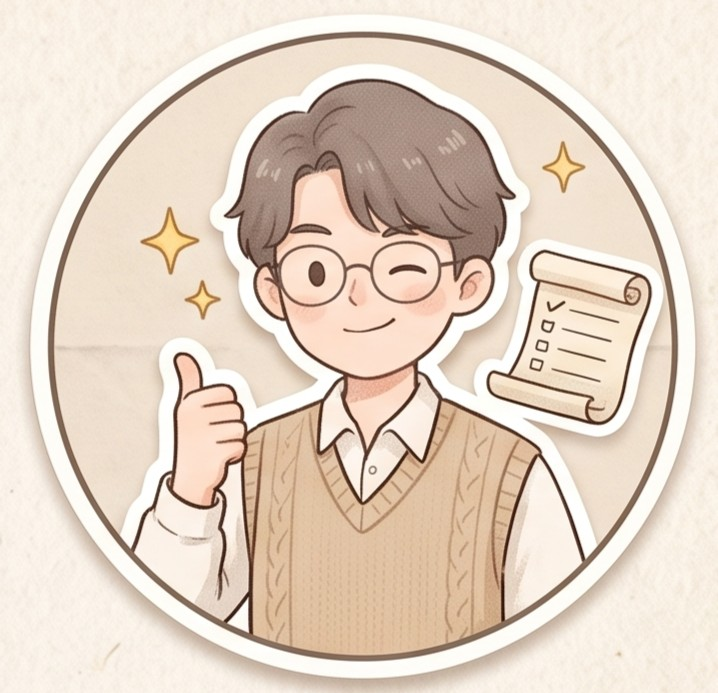
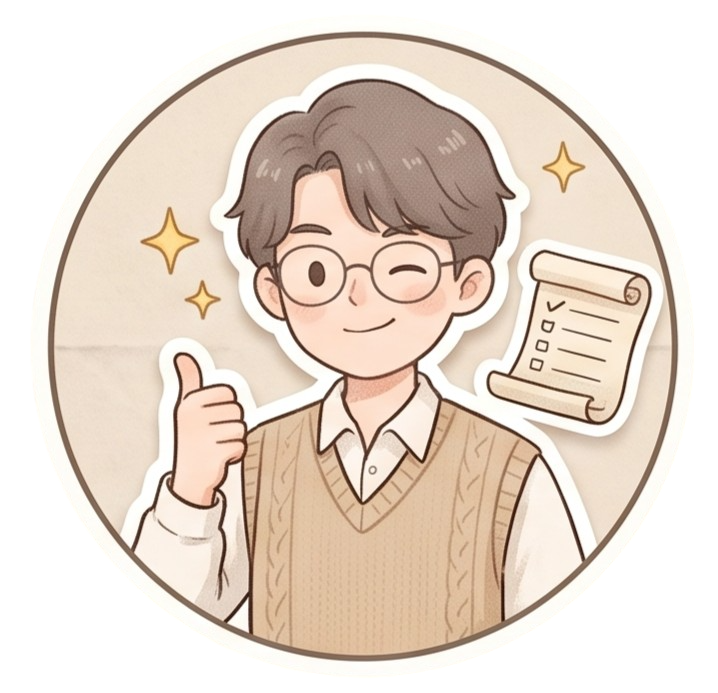
GUI: Improve resizing and command feedback
Allow responsive resizing, close on `bye`, and highlight commands and
errors. Fix GUI `find` matching and result numbering, and update tests.

Changed region(s): [[0.0, 0.0, 1.0, 1.0]]

diff --git a/src/main/resources/view/caesar.css b/src/main/resources/view/caesar.css
@@ -64,11 +64,35 @@
     -fx-border-color: #e9c2a0;
 }
 
+.error-dialog {
+    -fx-background-color: #ffe0e0;
+    -fx-border-color: #df7777;
+    -fx-border-width: 2px;
+}
+
 .user-dialog .label,
 .caesar-dialog .label {
     -fx-text-fill: #5d4235;
     -fx-font-size: 14px;
     -fx-line-spacing: 3px;
+}
+
+.command-badge,
+.command-preview {
+    -fx-background-color: #fffaf3;
+    -fx-background-radius: 12px;
+    -fx-border-color: #d8aa86;
+    -fx-border-radius: 12px;
+    -fx-padding: 3px 9px 3px 9px;
+    -fx-text-fill: #8d5e43;
+    -fx-font-size: 11px;
+    -fx-font-weight: bold;
+}
+
+.error-dialog .label,
+.command-preview-error {
+    -fx-text-fill: #a52d2d;
+    -fx-font-weight: bold;
 }
 
 .user-dialog .image-view,
@@ -106,6 +130,12 @@
 
 .send-button:pressed {
     -fx-background-color: #a9684d;
+}
+
+.command-input.error-input {
+    -fx-border-color: #df7777;
+    -fx-border-width: 2px;
+    -fx-effect: dropshadow(gaussian, rgba(223, 119, 119, 0.35), 6, 0.2, 0, 0);
 }
 
 .help-button {

diff --git a/src/main/java/Caesar/gui/MainWindow.java b/src/main/java/Caesar/gui/MainWindow.java
@@ -1,5 +1,7 @@
 package caesar.gui;
 
+import java.util.Locale;
+
 import caesar.Caesar;
 import caesar.DialogBox;
 import caesar.exception.CaesarException;
@@ -30,6 +32,8 @@ public class MainWindow extends AnchorPane {
     private Button sendButton;
     @FXML
     private Button helpButton;
+    @FXML
+    private Label commandPreview;
 
     /** Processes commands using the existing Caesar application logic. */
     private Caesar caesar;
@@ -48,8 +52,13 @@ public class MainWindow extends AnchorPane {
         dialogContainer.heightProperty().addListener((observable, oldHeight, newHeight) -> {
             scrollToLatestDialog();
         });
+        userInput.textProperty().addListener((observable, oldValue, newValue) -> {
+            userInput.getStyleClass().remove("error-input");
+            updateCommandPreview();
+        });
         userImage = new Image(getClass().getResourceAsStream("/images/User.png"));
         caesarImage = new Image(getClass().getResourceAsStream("/images/Caesar.png"));
+        updateCommandPreview();
     }
 
     /** Injects the Caesar instance and response collector used by this window. */
@@ -57,7 +66,7 @@ public class MainWindow extends AnchorPane {
         this.caesar = caesar;
         this.guiUi = guiUi;
         addDialog("Hello! I'm Caesar.\n"
-                + "You look even brighter than the last time we spoke.\n"
+                + "You look even brighter than the last time we spoke. "
                 + "How may I ease your day today?\n\n"
                 + Parser.getCommandInstructions(), false);
     }
@@ -71,21 +80,27 @@ public class MainWindow extends AnchorPane {
         }
 
         addDialog(command, true);
+        boolean shouldExit = false;
+        boolean hasError = false;
         try {
             guiUi.clearResponse();
-            boolean shouldExit = caesar.processCommand(command);
+            shouldExit = caesar.processCommand(command);
             String response = guiUi.consumeResponse();
             if (!response.isBlank()) {
                 addDialog(response, false);
             }
-            if (shouldExit) {
-                getScene().getWindow().hide();
-            }
         } catch (CaesarException exception) {
             guiUi.clearResponse();
-            addDialog(exception.getMessage(), false);
+            addDialog(exception.getMessage(), false, true);
+            hasError = true;
         }
         userInput.clear();
+        if (hasError) {
+            userInput.getStyleClass().add("error-input");
+        }
+        if (shouldExit) {
+            closeWindow();
+        }
     }
 
     /** Opens a small window containing the supported command formats. */
@@ -131,16 +146,55 @@ public class MainWindow extends AnchorPane {
         helpStage.show();
     }
 
-    /** Adds a user or Caesar message to the conversation. */
+    /** Adds a normal user or Caesar message to the conversation. */
     private void addDialog(String message, boolean fromUser) {
+        addDialog(message, fromUser, false);
+    }
+
+    /** Adds a user or Caesar message and optionally highlights it as an error. */
+    private void addDialog(String message, boolean fromUser, boolean isError) {
         DialogBox dialog = fromUser
                 ? DialogBox.getUserDialog(message, userImage)
                 : DialogBox.getCaesarDialog(message, caesarImage);
         dialog.getStyleClass().add(fromUser ? "user-dialog" : "caesar-dialog");
-        dialog.setMaxWidth(370.0);
+        if (isError) {
+            dialog.getStyleClass().add("error-dialog");
+        }
+        dialog.setMaxWidth(Double.MAX_VALUE);
         VBox.setMargin(dialog, new Insets(3.0, 2.0, 3.0, 2.0));
         dialogContainer.getChildren().add(dialog);
         scrollToLatestDialog();
+    }
+
+    /** Updates the live command indicator below the input field. */
+    private void updateCommandPreview() {
+        String input = userInput.getText().trim();
+        if (input.isEmpty()) {
+            commandPreview.setVisible(false);
+            commandPreview.setManaged(false);
+            return;
+        }
+
+        String commandWord = input.split("\\s+", 2)[0];
+        boolean isKnownCommand = Caesar.CommandType.fromString(commandWord)
+                != Caesar.CommandType.UNKNOWN;
+        commandPreview.setText(isKnownCommand
+                ? "Command: " + commandWord.toLowerCase(Locale.ENGLISH)
+                : "Unknown command");
+        commandPreview.getStyleClass().remove("command-preview-error");
+        if (!isKnownCommand) {
+            commandPreview.getStyleClass().add("command-preview-error");
+        }
+        commandPreview.setVisible(true);
+        commandPreview.setManaged(true);
+    }
+
+    /** Closes the main window and terminates the JavaFX application. */
+    private void closeWindow() {
+        if (getScene() != null && getScene().getWindow() instanceof Stage stage) {
+            stage.close();
+        }
+        Platform.exit();
     }
 
     /** Scrolls the conversation to its newest message after JavaFX lays it out. */

diff --git a/src/main/java/Caesar/DialogBox.java b/src/main/java/Caesar/DialogBox.java
@@ -2,6 +2,7 @@ package caesar;
 
 import java.io.IOException;
 import java.util.Collections;
+import java.util.Locale;
 
 import javafx.collections.FXCollections;
 import javafx.collections.ObservableList;
@@ -20,6 +21,8 @@ public class DialogBox extends HBox {
     private Label dialog;
     @FXML
     private ImageView displayPicture;
+    @FXML
+    private Label commandBadge;
 
     /** Creates a dialog box by loading the reusable FXML view. */
     private DialogBox(String text, Image image) {
@@ -46,7 +49,12 @@ public class DialogBox extends HBox {
 
     /** Creates a dialog box for a message sent by the user. */
     public static DialogBox getUserDialog(String text, Image image) {
-        return new DialogBox(text, image);
+        DialogBox dialogBox = new DialogBox(text, image);
+        String commandWord = text.trim().split("\\s+", 2)[0];
+        if (Caesar.CommandType.fromString(commandWord) != Caesar.CommandType.UNKNOWN) {
+            dialogBox.setCommandBadge(commandWord.toLowerCase(Locale.ENGLISH));
+        }
+        return dialogBox;
     }
 
     /** Creates a dialog box for a message sent by Caesar. */
@@ -54,5 +62,12 @@ public class DialogBox extends HBox {
         DialogBox dialogBox = new DialogBox(text, image);
         dialogBox.flip();
         return dialogBox;
+    }
+
+    /** Displays the recognized command keyword in this dialog. */
+    private void setCommandBadge(String commandWord) {
+        commandBadge.setText(commandWord);
+        commandBadge.setManaged(true);
+        commandBadge.setVisible(true);
     }
 }

diff --git a/src/main/java/Caesar/task/TaskList.java b/src/main/java/Caesar/task/TaskList.java
@@ -7,6 +7,7 @@ import java.util.Collection;
 import java.util.Comparator;
 import java.util.Iterator;
 import java.util.List;
+import java.util.Locale;
 
 /**
  * Stores the tasks managed by Caesar and exposes task-list operations.
@@ -72,8 +73,9 @@ public class TaskList implements Iterable<Task> {
 
     /** Returns tasks whose descriptions contain the supplied text. */
     public TaskList find(String description) throws CaesarException {
+        String searchTerm = description.trim().toLowerCase(Locale.ENGLISH);
         List<Task> matchingTasks = tasks.stream()
-                .filter(task -> task.getDescription().contains(description))
+                .filter(task -> task.getDescription().toLowerCase(Locale.ENGLISH).contains(searchTerm))
                 .toList();
         if (matchingTasks.isEmpty()) {
             throw new CaesarException("I couldn't find any tasks containing that description. "

diff --git a/src/main/java/Caesar/Main.java b/src/main/java/Caesar/Main.java
@@ -1,14 +1,14 @@
 package caesar;
 
+import java.io.IOException;
+
 import caesar.gui.GuiUi;
 import caesar.gui.MainWindow;
-import javafx.fxml.FXMLLoader;
 import javafx.application.Application;
+import javafx.fxml.FXMLLoader;
 import javafx.scene.Scene;
 import javafx.scene.layout.AnchorPane;
 import javafx.stage.Stage;
-
-import java.io.IOException;
 
 /** Starts the JavaFX user interface for Caesar. */
 public class Main extends Application {
@@ -22,7 +22,7 @@ public class Main extends Application {
                     new Caesar("data/tasks.txt", guiUi), guiUi);
 
             stage.setTitle("Caesar");
-            stage.setResizable(false);
+            stage.setResizable(true);
             stage.setScene(new Scene(mainWindow));
             stage.show();
         } catch (IOException exception) {

diff --git a/src/test/java/Caesar/CaesarTest.java b/src/test/java/Caesar/CaesarTest.java
@@ -52,7 +52,7 @@ public class CaesarTest {
         caesar.processCommand("todo Buy groceries");
         guiUi.clearResponse();
 
-        caesar.processCommand("find book");
+        caesar.processCommand("find BOOK");
 
         assertTrue(guiUi.consumeResponse().contains("1. [T][ ] Read a book"));
     }
@@ -98,7 +98,7 @@ public class CaesarTest {
         caesar.processCommand("reschedule 1 05/05/2026 06/05/2026");
 
         assertTrue(guiUi.consumeResponse().contains("May 5 2026"));
-        assertEquals("E | 0 | Project meeting | May 5 2026 | Jun 5 2026",
+        assertEquals("E | 0 | Project meeting | May 5 2026 | May 6 2026",
                 java.nio.file.Files.readString(temporaryDirectory.resolve("tasks.txt")).trim());
     }
 

diff --git a/src/main/java/Caesar/ui/Ui.java b/src/main/java/Caesar/ui/Ui.java
@@ -155,8 +155,8 @@ public class Ui implements AutoCloseable {
     /** Formats matching tasks with one-based numbering. */
     protected String formatTaskFoundResponse(TaskList foundTasks) throws CaesarException {
         StringBuilder response = new StringBuilder("Here are the matching tasks in your list:\n");
-        for (int i = 0; i < foundTasks.size(); i++) {
-            response.append(i + 1).append(". ").append(foundTasks.get(i)).append("\n");
+        for (int taskNumber = 1; taskNumber <= foundTasks.size(); taskNumber++) {
+            response.append(taskNumber).append(". ").append(foundTasks.get(taskNumber)).append("\n");
         }
         return response.toString();
     }

diff --git a/src/test/java/Caesar/parser/ParserTest.java b/src/test/java/Caesar/parser/ParserTest.java
@@ -211,7 +211,7 @@ public class ParserTest {
         );
 
         assertEquals(
-                "Invalid date format. Please use YYYY-MM-DD or MMM d yyyy.",
+                "Invalid date format. Please use YYYY-MM-DD, DD/MM/YYYY, or MMM d yyyy.",
                 exception.getMessage()
         );
     }
@@ -264,6 +264,6 @@ public class ParserTest {
         CaesarException exception = new Parser().unknownCommand();
 
         assertFalse(exception.getMessage().isBlank());
-        assertTrue(exception.getMessage().contains(Parser.getCommandInstructions()));
+        assertTrue(exception.getMessage().contains("HELP"));
     }
 }

diff --git a/src/test/java/Caesar/task/TaskListTest.java b/src/test/java/Caesar/task/TaskListTest.java
@@ -122,7 +122,7 @@ public class TaskListTest {
         ToDo secondMatchingTask = new ToDo("book a holiday");
         tasks.add(secondMatchingTask);
 
-        TaskList foundTasks = tasks.find("book");
+        TaskList foundTasks = tasks.find("BOOK");
 
         assertEquals(2, foundTasks.size());
         assertSame(matchingTask, foundTasks.get(1));
